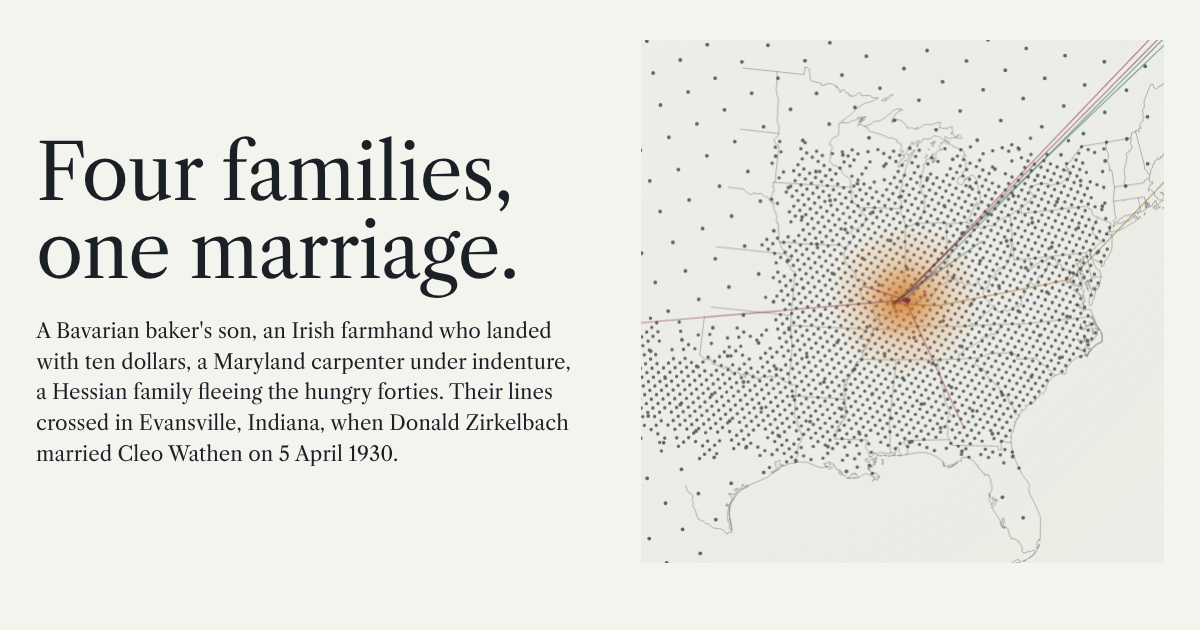
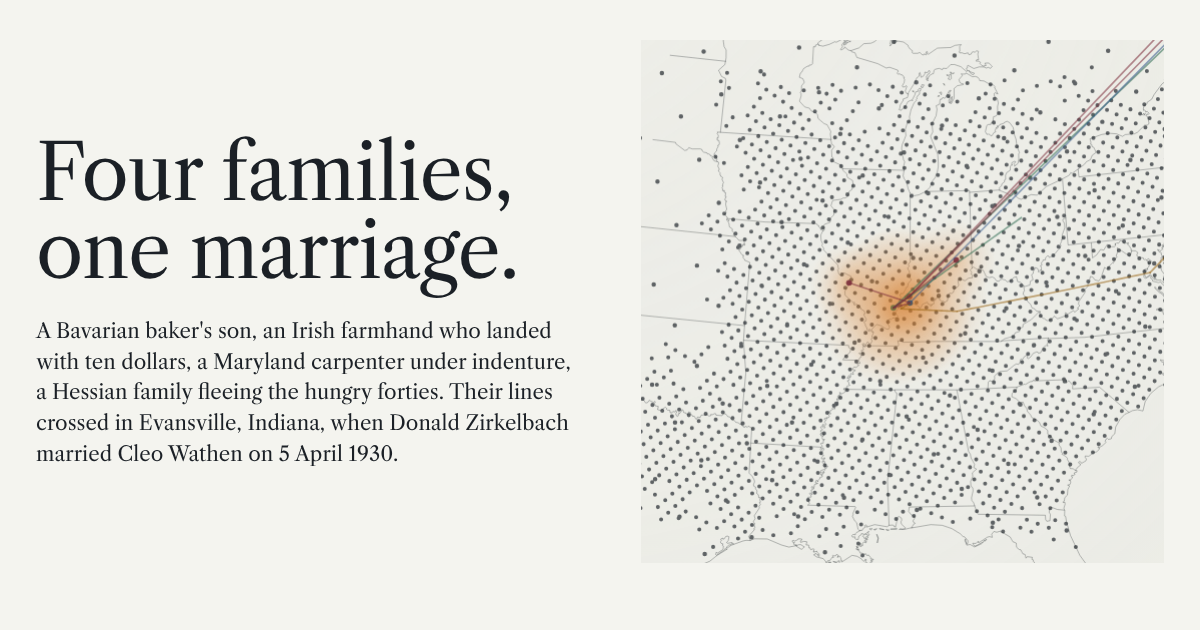
Narrated opening: the hero globe plays the journey as captioned beats
The hero loop is now a sequence of beats, one per crossing, each with the
year, a one-sentence caption naming who moved and where, and a clickable
beat line under the globe to jump to any moment. A legend explains the four
colors and the glow; a pause control stops the playback. The intro frames
the Atlantic before the first line draws, the camera looks ahead a few
years so a crossing is framed before it starts, and the hero's lines are a
little heavier. Reduced motion shows the finished map with the beats as an
index. The Zirkelbach meaning now explains Zirkel and the older Cirkumbach.

Claude-Session: https://claude.ai/code/session_01HyHbwZAcJAkx91s4gARBgD

Changed region(s): [[0.5242, 0.0603, 0.9867, 0.9048], [0.6783, 0.0603, 0.7092, 0.0905]]

diff --git a/src/app.js b/src/app.js
@@ -1048,8 +1048,8 @@
     function proj(x, y, z) { var x1 = x * G.cl - z * G.sl, z1 = x * G.sl + z * G.cl; return [x1, y * G.ca - z1 * G.sa, y * G.sa + z1 * G.ca]; }
     /* where the camera should be for a given year: the recent crossings, and the family's home cluster */
     function focusFor(y) {
-      var pts = [];
-      routes.forEach(function (rt) { if (y >= rt.r.y && y <= rt.r.y + visDur(rt.r) + 5) { pts.push({ v: rt.va, w: 3 }); pts.push({ v: rt.vb, w: 3 }); } });
+      var pts = [], ahead = opts.lookAhead || 0; /* the narrated hero frames a crossing a few years before the line starts to draw */
+      routes.forEach(function (rt) { if (y >= rt.r.y - ahead && y <= rt.r.y + visDur(rt.r) + 5) { pts.push({ v: rt.va, w: 3 }); pts.push({ v: rt.vb, w: 3 }); } });
       var pres = places.map(function (pl) { return { pl: pl, w: presenceAt(pl.p, y) * (pl.p.lon < -30 ? 1.4 : 1) }; }).filter(function (o) { return o.w > 0; }).sort(function (a, b) { return b.w - a.w; });
       if (pres.length) { var top = pres[0]; pres.forEach(function (o) { if (angleBetween(o.pl.v, top.pl.v) < 0.36) pts.push({ v: o.pl.v, w: o.w }); }); }
       if (!pts.length) return { lat: 30, lon: -40, zoom: 1.15 };
@@ -1130,7 +1130,7 @@
       routes.forEach(function (rt) {
         var r = rt.r, prog = (y - r.y) / visDur(r); if (prog <= 0) return; prog = Math.min(1, prog);
         var done = prog >= 1, n = Math.floor(prog * (rt.pts.length - 1)), col = rt.rgb.join(',');
-        c.strokeStyle = 'rgba(' + col + ', ' + (done ? 0.55 : 0.95) + ')'; c.lineWidth = Math.max(1.2, S / (done ? 500 : 360));
+        c.strokeStyle = 'rgba(' + col + ', ' + (done ? 0.55 : 0.95) + ')'; c.lineWidth = Math.max(1.2, S / (done ? 500 : 360)) * (opts.lineScale || 1);
         c.beginPath(); var pen = false;
         for (var i = 0; i <= n; i++) {
           var q = rt.pts[i], p = proj(q[0], q[1], q[2]);
@@ -1139,7 +1139,7 @@
           if (!pen) { c.moveTo(sx, sy); pen = true; } else c.lineTo(sx, sy);
         }
         c.stroke();
-        if (!done && n > 0) { var hq = rt.pts[n], hp = proj(hq[0], hq[1], hq[2]); if (hp[2] > -0.05) { c.fillStyle = 'rgba(' + col + ', 1)'; c.beginPath(); c.arc(cx + hp[0] * R, cy - hp[1] * R, Math.max(2.2, S / 150), 0, 6.2832); c.fill(); } }
+        if (!done && n > 0) { var hq = rt.pts[n], hp = proj(hq[0], hq[1], hq[2]); if (hp[2] > -0.05) { c.fillStyle = 'rgba(' + col + ', 1)'; c.beginPath(); c.arc(cx + hp[0] * R, cy - hp[1] * R, Math.max(2.2, S / 150) * (opts.lineScale || 1), 0, 6.2832); c.fill(); } }
       });
       /* labels */
       if (opts.labels !== false) {
@@ -1224,22 +1224,45 @@
     G.raf = requestAnimationFrame(tick);
     return G;
   }
+  /* The opening: the hero globe plays the journey as a narrated sequence. Each beat is a crossing the viewer
+     should be able to follow: the year runs to `to` over `t` ms, holds for `hold`, and the caption names who moved
+     and where. Beats with a `mark` appear on the clickable line under the globe; the others just carry the years
+     between crossings while the previous caption stays up long enough to read. */
+  var STORY = [
+    { to: YEAR_MIN, t: 0, hold: 2400, line: 'all', cam: { lon: -42, lat: 40, zoom: 1.25 },
+      text: 'Three and a half centuries of moves, played through in under a minute. Each colored line is one family; the glow is where they lived.' },
+    { to: 1674, t: 1900, hold: 1500, mark: '1670', line: 'wathen',
+      text: 'John Wathen, a carpenter under a three-year indenture, sails from Bristol to Charles County, Maryland.' },
+    { to: 1789, t: 1600, hold: 0 },
+    { to: 1797, t: 1600, hold: 1000, mark: '1790s', line: 'wathen',
+      text: 'Four generations later the Wathens join the Maryland Catholic migration to Kentucky: Pottinger’s Creek, then Union County on the Ohio.' },
+    { to: 1816, t: 1500, hold: 0 },
+    { to: 1821, t: 1600, hold: 1500, mark: '1817', line: 'daily',
+      text: 'William Daily, nine weeks under sail from Queen’s County, Ireland, lands with ten dollars and walks to Gallatin County, Illinois.' },
+    { to: 1836, t: 1100, hold: 0 },
+    { to: 1844, t: 1900, hold: 1500, mark: '1837', line: 'zirkelbach',
+      text: 'The Zirkelbachs leave Wegfurt in the Rhön; the Lintzenichs leave the Rhineland. Both settle at St. James, just north of Evansville.' },
+    { to: 1851, t: 900, hold: 0 },
+    { to: 1856, t: 1700, hold: 1300, mark: '1852', line: 'vogt',
+      text: 'John Philip and Hettie Vogt bring two-year-old Charles from Hesse-Darmstadt to Knight Township, east of Evansville. For thirty years, nobody moves far.' },
+    { to: 1883, t: 1600, hold: 0 },
+    { to: 1890, t: 1700, hold: 1600, mark: '1884', line: 'wathen',
+      text: 'Thomas Raphael Wathen brings his sons up the Ohio from Uniontown to Evansville; a year later many Zirkelbachs cross the Wabash to Ridgway, Illinois.' },
+    { to: 1903, t: 900, hold: 0 },
+    { to: 1908, t: 1300, hold: 1300, mark: '1904', line: 'zirkelbach',
+      text: 'Pete Zirkelbach, newly married to Carrie Daily of the Pond Settlement, comes back across the river to Evansville. The lines are converging.' },
+    { to: 1929, t: 1300, hold: 0 },
+    { to: 1931, t: 500, hold: 2600, mark: '1930', line: 'all',
+      text: 'Donald Zirkelbach marries Cleo Wathen in Evansville on 5 April 1930. Four lines, one family.' },
+    { to: 1965, t: 1500, hold: 0 },
+    { to: YEAR_MAX, t: 2600, hold: 3600, mark: 'today', line: 'all',
+      text: 'The family today: Evansville and Newburgh, with branches in Georgia and Arizona. Scroll on to meet them.' }
+  ];
   function setupGlobes() {
     var hero = $('#globe-hero'), main = $('#globe-main');
-    var gh = hero && Globe(hero, { auto: true, labels: false, zmax: 5.5, ease: 0.05, manualHold: 6000 });
+    var gh = hero && Globe(hero, { auto: true, labels: false, zmax: 7, ease: 0.08, manualHold: 6000, lookAhead: 6, lineScale: 1.35 });
     var gm = main && Globe(main, { auto: true, labels: true, zmax: 18, ease: 0.09, wheel: true, tapFocus: true });
-    if (gh) {
-      if (reducedMotion) { gh.setYear(YEAR_MAX, false); gh.lookAt(-45, 30, 1.2); }
-      else {
-        var t0 = null, LEN = 13000, HOLD = 4500, lastY = -1;
-        (function loop(ts) {
-          if (!t0) t0 = ts;
-          var el = (ts - t0) % (LEN + HOLD), yr = Math.round(el < LEN ? YEAR_MIN + (YEAR_MAX - YEAR_MIN) * easeInOut(el / LEN) : YEAR_MAX);
-          if (yr !== lastY) { gh.setYear(yr, true); lastY = yr; }
-          requestAnimationFrame(loop);
-        })(0);
-      }
-    }
+    setupStory(gh || null);
     if (gm) {
       TIME.on(function (y, why) { gm.setYear(y, true); });
       var zi = $('#g-in'), zo = $('#g-out'), zf = $('#g-fit');
@@ -1247,7 +1270,74 @@
       if (zo) zo.addEventListener('click', function () { gm.zoomBy(0.67); });
       if (zf) zf.addEventListener('click', function () { gm.release(); });
     }
-    function easeInOut(x) { return x < 0.5 ? 2 * x * x : 1 - Math.pow(-2 * x + 2, 2) / 2; }
+  }
+  function setupStory(gh) {
+    var yearEl = $('#n-year'), textEl = $('#n-text'), beatsEl = $('#beats'), pauseBtn = $('#hero-pause');
+    var segs = [], at = 0;
+    STORY.forEach(function (s, i) {
+      var from = i ? STORY[i - 1].to : YEAR_MIN;
+      segs.push({ s: s, from: from, start: at, end: at + s.t + s.hold });
+      at += s.t + s.hold;
+    });
+    var TOTAL = at, marks = segs.filter(function (sg) { return sg.s.mark; });
+    var clock = 0, prev = null, paused = false, cur = null, lastYear = null, lastSeg = null;
+    var jump = function (sg) { clock = sg.start; prev = null; render(clock); };
+    /* the beat line */
+    var items = [];
+    if (beatsEl) {
+      marks.forEach(function (sg) {
+        var li = h('li', { class: 'line-' + sg.s.line });
+        var b = h('button', { class: 'beat', type: 'button', 'aria-label': 'Jump to ' + sg.s.mark + ': ' + sg.s.text });
+        b.addEventListener('click', function () { jump(sg); });
+        li.appendChild(b); li.appendChild(h('span', { text: sg.s.mark }));
+        beatsEl.appendChild(li); items.push({ li: li, sg: sg });
+      });
+    }
+    function caption(sg) {
+      /* the caption is the latest beat with text at or before this segment */
+      var k = segs.indexOf(sg); while (k > 0 && !segs[k].s.text) k--;
+      var c = segs[k];
+      if (c === cur) return; cur = c;
+      if (textEl) textEl.textContent = c.s.text;
+      items.forEach(function (it) {
+        var past = it.sg.start < c.start, on = it.sg === c;
+        it.li.classList.toggle('is-past', past); it.li.classList.toggle('is-on', on);
+      });
+    }
+    function showYear(y) { if (y !== lastYear) { lastYear = y; if (gh) gh.setYear(y, true); if (yearEl) yearEl.textContent = String(y); } }
+    function render(clk) {
+      var sg = segs[segs.length - 1];
+      for (var i = 0; i < segs.length; i++) if (clk < segs[i].end) { sg = segs[i]; break; }
+      var p = sg.s.t ? Math.min(1, (clk - sg.start) / sg.s.t) : 1;
+      showYear(Math.round(sg.from + (sg.s.to - sg.from) * p));
+      if (sg !== lastSeg) { lastSeg = sg; if (sg.s.cam && gh) gh.lookAt(sg.s.cam.lon, sg.s.cam.lat, sg.s.cam.zoom); }
+      caption(sg);
+    }
+    if (reducedMotion) {
+      /* no animation: the finished map, and the beats as a clickable index */
+      if (gh) { gh.setYear(YEAR_MAX, false); gh.lookAt(-45, 30, 1.2); }
+      var last = marks[marks.length - 1]; render(last.start + last.s.t);
+      if (pauseBtn) pauseBtn.hidden = true;
+      jump = function (sg) { render(sg.start + sg.s.t); };
+      return;
+    }
+    function setPaused(v) {
+      paused = v; prev = null;
+      if (pauseBtn) { pauseBtn.textContent = v ? '\u25B6' : '\u275A\u275A'; pauseBtn.setAttribute('aria-label', v ? 'Play the journey' : 'Pause the journey'); pauseBtn.classList.toggle('is-paused', v); }
+    }
+    if (pauseBtn) pauseBtn.addEventListener('click', function () { setPaused(!paused); });
+    document.addEventListener('visibilitychange', function () { prev = null; });
+    render(0);
+    (function loop(ts) {
+      if (typeof ts !== 'number') ts = performance.now();
+      if (!paused && (!gh || gh.visible !== false)) {
+        if (prev != null) clock += Math.min(100, ts - prev);
+        prev = ts;
+        if (clock >= TOTAL) clock -= TOTAL;
+      } else prev = null;
+      render(clock);
+      requestAnimationFrame(loop);
+    })(performance.now());
   }
 
   function init() {

diff --git a/src/style.css b/src/style.css
@@ -154,11 +154,33 @@ p { margin: 0; }
 .hero .lede { font-size: clamp(1.08rem, 1.7vw, 1.3rem); color: var(--ink); max-width: 46ch; margin-top: 26px; line-height: 1.5; font-family: var(--font-display); }
 .hero-sub { margin-top: 14px; color: var(--ink-2); max-width: 46ch; }
 .hero-actions { display: flex; gap: 10px; flex-wrap: wrap; margin-top: 26px; }
-.hero-globe { margin: 0; position: relative; justify-self: center; width: 100%; max-width: 560px; aspect-ratio: 1; }
+.hero-globe { margin: 0; position: relative; justify-self: center; width: 100%; max-width: 560px; }
+.globe-wrap { position: relative; width: 100%; aspect-ratio: 1; }
 .hero-globe canvas { width: 100%; height: 100%; display: block; touch-action: pan-y; cursor: grab; }
 .hero-globe canvas:active { cursor: grabbing; }
-.hero-globe figcaption { position: absolute; left: 50%; bottom: -6px; transform: translateX(-50%); white-space: nowrap; color: var(--ink-3); font-size: 0.85rem; }
-@media (max-width: 900px) { .hero-globe { max-width: 440px; } .hero-globe figcaption { position: static; transform: none; text-align: center; margin-top: 6px; white-space: normal; } }
+.globe-pause { position: absolute; right: 6%; bottom: 6%; width: 36px; height: 36px; border-radius: 50%; border: 1px solid var(--rule); background: color-mix(in srgb, var(--card) 85%, transparent); cursor: pointer; font-size: 0.75rem; color: var(--ink-2); }
+@supports not (background: color-mix(in srgb, red 50%, blue)) { .globe-pause { background: var(--card); } }
+.globe-pause:hover { color: var(--ink); border-color: var(--ink-3); }
+.narrate { margin-top: 2px; display: grid; gap: 10px; }
+.narrate-head { display: grid; grid-template-columns: auto 1fr; gap: 0 14px; align-items: start; min-height: 3.4em; }
+.n-year { font-family: var(--font-display); font-size: 1.9rem; line-height: 1.05; font-variant-numeric: tabular-nums; letter-spacing: -0.01em; min-width: 3.2ch; }
+.n-text { color: var(--ink-2); font-size: 0.97rem; line-height: 1.45; max-width: 46ch; }
+.beats { list-style: none; margin: 0; padding: 10px 0 0; display: flex; justify-content: space-between; position: relative; }
+.beats::before { content: ""; position: absolute; left: 6px; right: 6px; top: 15px; height: 1px; background: var(--rule); }
+.beats li { position: relative; flex: 1 1 0; display: grid; justify-items: center; gap: 6px; min-width: 0; }
+.beats li:first-child { justify-items: start; } .beats li:last-child { justify-items: end; }
+.beat { width: 11px; height: 11px; border-radius: 50%; border: 2px solid var(--lc, var(--ink-3)); background: var(--paper); cursor: pointer; padding: 0; transition: transform .2s, background-color .2s; }
+.beat:hover { transform: scale(1.3); }
+.beats li.is-past .beat { background: var(--lc, var(--ink-3)); }
+.beats li.is-on .beat { background: var(--lc, var(--ink-3)); transform: scale(1.45); box-shadow: 0 0 0 4px var(--lt, var(--paper-2)); }
+.beats span { font-size: 0.72rem; color: var(--ink-3); white-space: nowrap; font-variant-numeric: tabular-nums; }
+.beats li.is-on span { color: var(--ink); font-weight: 700; }
+@media (max-width: 440px) { .beats li:not(.is-on):not(:first-child):not(:last-child) span { visibility: hidden; } }
+.n-legend { display: flex; flex-wrap: wrap; gap: 6px 14px; font-size: 0.82rem; color: var(--ink-2); }
+.n-legend span { display: inline-flex; align-items: center; gap: 6px; }
+.n-legend i { width: 14px; height: 3px; border-radius: 2px; background: var(--lc); }
+.n-legend .glow i { width: 12px; height: 12px; border-radius: 50%; background: radial-gradient(circle, rgba(var(--heat), 0.8), rgba(var(--heat), 0) 70%); }
+@media (max-width: 900px) { .hero-globe { max-width: 460px; } }
 
 /* the four marks */
 .plates { display: grid; grid-template-columns: repeat(4, minmax(0, 1fr)); gap: 18px; margin-top: clamp(40px, 6vw, 72px); }

diff --git a/src/body.html b/src/body.html
@@ -101,12 +101,20 @@
       <div class="hero-text">
         <h1>Four families,<br>one marriage.</h1>
         <p class="lede">A Bavarian baker's son, an Irish farmhand who landed with ten dollars, a Maryland carpenter under indenture, a Hessian family fleeing the hungry forties. Their lines crossed in Evansville, Indiana, when Donald Zirkelbach married Cleo Wathen on 5 April 1930.</p>
-        <p class="hero-sub">Three centuries, four countries, fifteen places, and what the records say about each of them.</p>
+        <p class="hero-sub">Three and a half centuries, four countries, fifteen places, and what the records say about each of them.</p>
         <div class="hero-actions"><a class="btn primary" href="#journeys">Follow the journeys</a><a class="btn" href="#tree">Open the tree</a></div>
       </div>
-      <figure class="hero-globe" aria-label="A globe showing the four families' routes converging on Evansville, Indiana">
-        <canvas id="globe-hero"></canvas>
-        <figcaption id="globe-hero-cap">Wegfurt, Linzenich, Hesse, Queen's County, Bristol. All roads to Evansville.</figcaption>
+      <figure class="hero-globe" aria-label="A globe that follows the four families' routes to Evansville, Indiana, with a narrated caption">
+        <div class="globe-wrap"><canvas id="globe-hero"></canvas>
+          <button class="globe-pause" id="hero-pause" type="button" aria-label="Pause the journey">❚❚</button>
+        </div>
+        <figcaption class="narrate">
+          <div class="narrate-head"><span class="n-year" id="n-year">1660</span><p class="n-text" id="n-text">Three and a half centuries of moves, played through in under a minute. Each colored line is one family; the glow is where they lived.</p></div>
+          <ol class="beats" id="beats" aria-label="Moments in the journey"></ol>
+          <div class="n-legend">
+            <span class="line-wathen"><i></i>Wathen</span><span class="line-daily"><i></i>Daily</span><span class="line-zirkelbach"><i></i>Zirkelbach</span><span class="line-vogt"><i></i>Vogt</span><span class="glow"><i></i>where the family lived</span>
+          </div>
+        </figcaption>
       </figure>
     </div>
     <div class="wrap">

diff --git a/test.js b/test.js
@@ -45,6 +45,17 @@ setTimeout(() => {
     assert(document.querySelectorAll('#unplaced li').length === 5, 'unplaced');
     assert(document.querySelectorAll('#changelog li').length >= 1, 'changelog');
     assert(document.querySelectorAll('#c-about option').length > 40, 'about options: ' + document.querySelectorAll('#c-about option').length);
+    // the narrated opening: nine beats, a click jumps the caption and the year, pause toggles
+    const beats = document.querySelectorAll('#beats li');
+    assert(beats.length === 9, 'story beats: ' + beats.length);
+    assert(/Three and a half centuries/.test(document.getElementById('n-text').textContent), 'intro caption');
+    const b1817 = Array.from(beats).find((li) => li.querySelector('span').textContent === '1817');
+    b1817.querySelector('button').click();
+    assert(/William Daily/.test(document.getElementById('n-text').textContent), 'beat caption: ' + document.getElementById('n-text').textContent.slice(0, 40));
+    assert(document.getElementById('n-year').textContent === '1816', 'beat year: ' + document.getElementById('n-year').textContent);
+    assert(b1817.classList.contains('is-on') && beats[0].classList.contains('is-past') && !beats[8].classList.contains('is-past'), 'beat states');
+    const hp = document.getElementById('hero-pause'); hp.click();
+    assert(hp.getAttribute('aria-label') === 'Play the journey', 'pause toggles');
     // menu opens and closes
     const mb = document.getElementById('menu-btn'), ml = document.getElementById('menu-list');
     mb.click(); assert(ml.hidden === false && mb.getAttribute('aria-expanded') === 'true', 'menu opens');

diff --git a/src/data.js b/src/data.js
@@ -17,7 +17,7 @@
 
 const LINES = {
   zirkelbach: { key: "z", name: "Zirkelbach", mark: "mark-zirkelbach", arms: "arms-bischofsheim", armsCap: "Arms of Bischofsheim in der Rhön, the town Wegfurt belongs to: a silver wall and towers on red, a mitred bishop beneath. No arms are recorded for the family.", armsKind: "place",
-    meaning: "From Zirkenbach, a hamlet of Fulda recorded in the twelfth century as Cirkumbach. In German the parts read Zirkel, a compass, and Bach, a brook.",
+    meaning: "From Zirkenbach, a hamlet of Fulda recorded in the twelfth century as Cirkumbach. In modern German the parts read Zirkel, a compass (from the Latin circulus, a small circle), and Bach, a brook; the old form looks like circum, around, so the brook that bends round the settlement is the likelier first meaning.",
     blurb: "German Catholic farmers from the Bavarian Rhön. Andrew Zirkelbach came as a boy about 1837 with his parents, a baker turned farmer, and worked 160 acres near St. James church for thirty-five years. His wife Katherine Lintzenich came from the Prussian Rhineland.",
     from: "Wegfurt, in the Rhön", to: "St. James, Indiana", when: "about 1837–40" },
   daily:      { key: "d", name: "Daily", mark: "mark-daily", arms: "arms-daly", armsCap: "Arms of the O'Daly sept, as Burke's General Armory records them: per fess argent and or, a lion rampant per fess sable and gules, two red hands in chief. Crest, a greyhound before an oak; motto Deo fidelis et regi.", armsKind: "sept",
